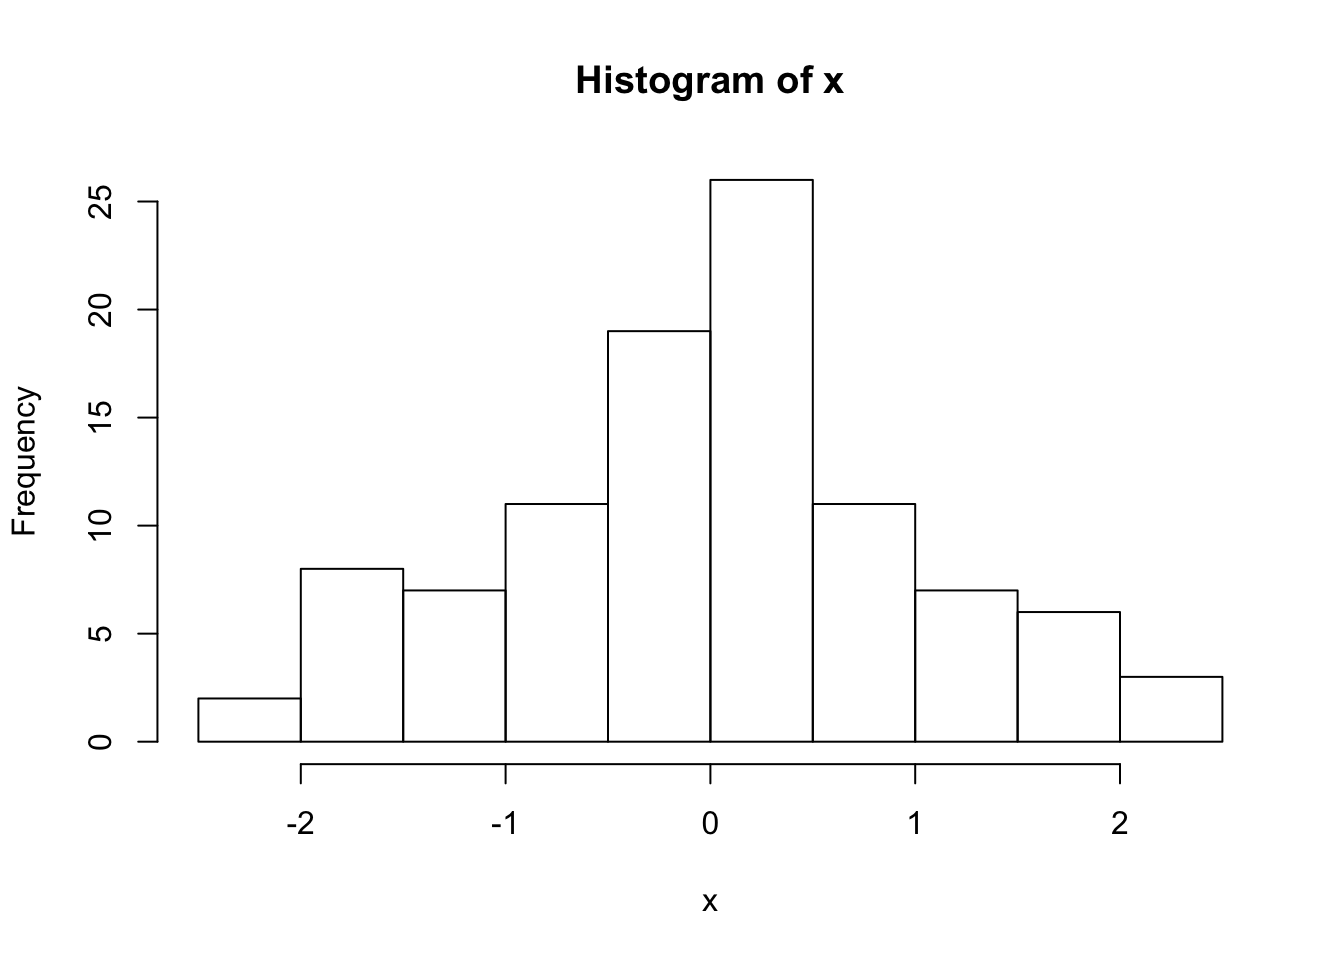
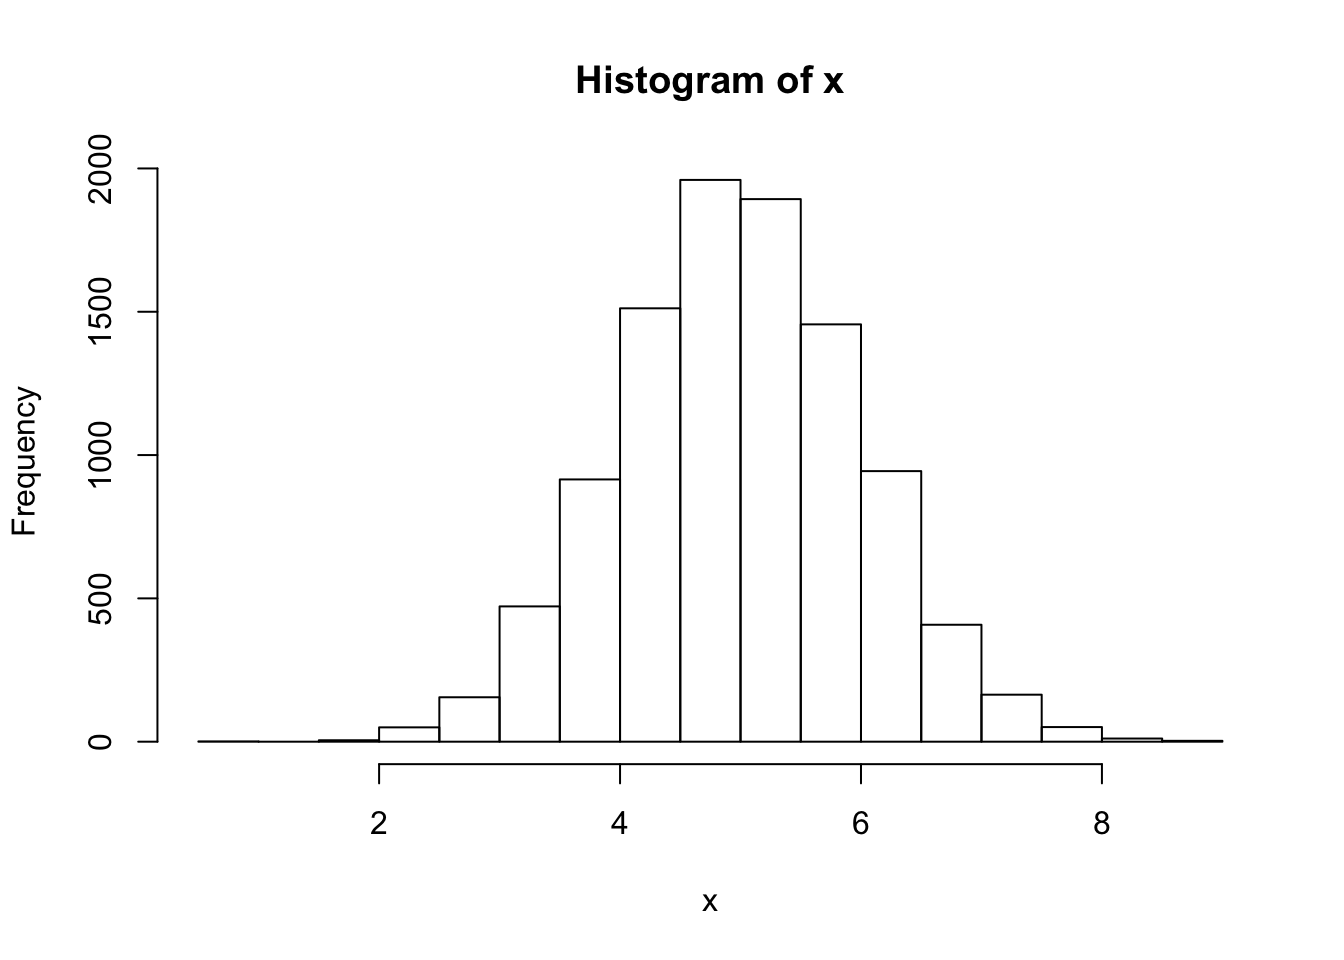
after lecture fixes 04

diff --git a/notes/04-functions-sim-size.html b/notes/04-functions-sim-size.html
@@ -159,15 +159,8 @@ $(document).ready(function () {
 </div>
 
 <pre class="r"><code>knitr::opts_chunk$set(echo = TRUE)
-library(tidyverse)</code></pre>
-<pre><code>## ── Attaching packages ──────────────────────────────── tidyverse 1.2.1 ──</code></pre>
-<pre><code>## ✔ ggplot2 3.0.0     ✔ purrr   0.2.5
-## ✔ tibble  1.4.2     ✔ dplyr   0.7.5
-## ✔ tidyr   0.8.1     ✔ stringr 1.3.1
-## ✔ readr   1.1.1     ✔ forcats 0.3.0</code></pre>
-<pre><code>## ── Conflicts ─────────────────────────────────── tidyverse_conflicts() ──
-## ✖ dplyr::filter() masks stats::filter()
-## ✖ dplyr::lag()    masks stats::lag()</code></pre>
+library(tidyverse)
+set.seed(181818)</code></pre>
 <div id="from-last-time" class="section level1">
 <h1>From last time</h1>
 <div id="warm-upthe-challenge-from-last-time" class="section level2">
@@ -251,7 +244,7 @@ longest_runs &lt;- map_dbl(many_sequences,
 
 # Finally...
 mean(longest_runs)</code></pre>
-<pre><code>## [1] 4.605</code></pre>
+<pre><code>## [1] 4.639</code></pre>
 </div>
 <div id="ways-things-get-more-complicated" class="section level2">
 <h2>Ways things get more complicated</h2>
@@ -292,9 +285,9 @@ coefficient_of_variation &lt;- function(x, na.rm = FALSE, ...){
 
 x &lt;- runif(10)
 coefficient_of_variation(x = x)</code></pre>
-<pre><code>## [1] 0.6506059</code></pre>
+<pre><code>## [1] 0.4623089</code></pre>
 <pre class="r"><code>coefficient_of_variation(x = x, trim = 0.25)</code></pre>
-<pre><code>## [1] 0.6789276</code></pre>
+<pre><code>## [1] 0.4564815</code></pre>
 </div>
 <div id="exponential-inverse-transform" class="section level2">
 <h2>Exponential Inverse Transform</h2>
@@ -302,20 +295,20 @@ coefficient_of_variation(x = x)</code></pre>
 <pre class="r"><code>u &lt;- runif(1)
 lambda &lt;- 5
 (x &lt;- -1 / lambda * log(1 - u))</code></pre>
-<pre><code>## [1] 0.02938678</code></pre>
+<pre><code>## [1] 0.1018719</code></pre>
 <p><strong>Your turn</strong> Turn this into a function. What should the arguments be?</p>
 <pre class="r"><code>u &lt;- runif(1)
 lambda &lt;- 5
 (x &lt;- -1 / lambda * log(1 - u))</code></pre>
-<pre><code>## [1] 0.1685556</code></pre>
+<pre><code>## [1] 0.02019427</code></pre>
 <pre class="r"><code>sample_exp &lt;- function(n, lambda){
   u &lt;- runif(n)
   -1 / lambda * log(1 - u)
 }
 
 sample_exp(10, lambda = 5)</code></pre>
-<pre><code>##  [1] 0.2419494943 0.1907913894 0.0219580001 0.0741930745 0.2165004246
-##  [6] 0.0318073072 0.0529352761 0.2148305231 0.1695176998 0.0001640528</code></pre>
+<pre><code>##  [1] 0.1519967204 0.1512896536 0.0042851299 0.1562532665 0.2497672581
+##  [6] 0.1366965437 0.2555457133 0.0002328799 0.1706922360 0.0479803846</code></pre>
 <p><strong>Back at 9:03</strong></p>
 </div>
 <div id="inverse-transform" class="section level2">
@@ -325,27 +318,27 @@ sample_exp(10, lambda = 5)</code></pre>
 
 u &lt;- runif(1)
 exp_icdf(u, lambda = 5)</code></pre>
-<pre><code>## [1] 0.06985015</code></pre>
+<pre><code>## [1] 0.1628068</code></pre>
 <pre class="r"><code>sample_inverse_cdf &lt;- function(n, inv_cdf, ...){
   u &lt;- runif(n)
   inv_cdf(u, ...)
 }
 sample_inverse_cdf(20, exp_icdf, lambda = 5)</code></pre>
-<pre><code>##  [1] 0.377460846 0.134680430 0.090342510 0.696892194 0.252943295
-##  [6] 0.470452034 0.001856979 0.312886939 0.167484845 0.076197384
-## [11] 0.181871476 0.277986794 0.036273435 0.083352794 0.240986476
-## [16] 0.063278274 0.038729603 0.034852407 0.062547555 0.045064996</code></pre>
+<pre><code>##  [1] 0.053899622 0.025974188 0.165090472 0.711054570 0.313451911
+##  [6] 0.257789633 0.103208275 0.184061036 0.175007737 1.020635893
+## [11] 0.122751554 0.280594812 0.412539486 0.016316951 0.012855245
+## [16] 0.046939276 0.071643537 0.157593954 0.007222465 0.207302211</code></pre>
 <p><strong>Your Turn</strong> Try it to simulate 100 values from a Normal(0, 1). Hint: you can use the built-in inverse CDF function <code>qnorm()</code>.</p>
 <pre class="r"><code>qnorm(0.5) # can use the built in quantile function </code></pre>
 <pre><code>## [1] 0</code></pre>
 <pre class="r"><code>x &lt;- sample_inverse_cdf(100, qnorm) 
 hist(x) # Looks good</code></pre>
-<p><img src="04-functions-sim-size_files/figure-html/unnamed-chunk-8-1.png" width="672" /></p>
+<p><img src="04-functions-sim-size_files/figure-html/unnamed-chunk-7-1.png" width="672" /></p>
 <pre class="r"><code># The `...` allow us to pass in other parameters to our inverse 
 # CDF function
-x &lt;- sample_inverse_cdf(100, qnorm, mean = 5) 
+x &lt;- sample_inverse_cdf(10000, qnorm, mean = 5) 
 hist(x) # Now centered at 5</code></pre>
-<p><img src="04-functions-sim-size_files/figure-html/unnamed-chunk-9-1.png" width="672" /></p>
+<p><img src="04-functions-sim-size_files/figure-html/unnamed-chunk-8-1.png" width="672" /></p>
 </div>
 <div id="takeaways" class="section level2">
 <h2>Takeaways</h2>
@@ -381,30 +374,50 @@ hist(x) # Now centered at 5</code></pre>
 <div id="how-big-a-simulation-should-we-run" class="section level2">
 <h2>How big a simulation should we run?</h2>
 <p>How accurately do we want to estimate <span class="math inline">\(\theta\)</span>?</p>
-<p><strong>Your Turn</strong> Can you get a confidence interval on the estimate of the length on the longest run from our earlier example?</p>
-<pre class="r"><code>theta_hat &lt;- mean(longest_runs)</code></pre>
+<p><strong>Your Turn</strong> Can you get a confidence interval on the estimate of the expected length of the longest run from our earlier example?</p>
+<pre class="r"><code>theta_hat &lt;- mean(longest_runs)
+
+# 95%
+theta_hat + c(-1, 1) * 1.96 * (sd(longest_runs)/sqrt(num_sims))</code></pre>
+<pre><code>## [1] 4.542639 4.735361</code></pre>
 </div>
 <div id="clt" class="section level2">
 <h2>CLT</h2>
+<p>Let <span class="math inline">\(Y = h(X)\)</span>, <span class="math inline">\(\mu = E(Y)\)</span> and <span class="math inline">\(\overline{Y} = \sum_{i = 1}^n h(X_i)\)</span>.</p>
+<p>Then <span class="math display">\[
+\text{Var}(\hat{\theta}) = \text{Var}(\overline{Y}) \dot \sim \,  N\left(\mu, \frac{\text{Var}(Y)}{n}\right)
+\]</span> for large <span class="math inline">\(n\)</span> by the Central Limit Theorem.</p>
+<p>We don’t know <span class="math inline">\(\text{Var}(Y)\)</span>, but we can estimate it using our simulated <span class="math inline">\(Y_i\)</span>.</p>
+<p>Leads to the usual 95% CI formula: <span class="math display">\[
+\overline{Y} \pm 1.96 \frac{s}{\sqrt{n}}
+\]</span> where <span class="math inline">\(s\)</span> is the sample standard deviation of the <span class="math inline">\(Y_i\)</span>, and <span class="math inline">\(n\)</span> the number of simulations.</p>
 </div>
 <div id="a-special-case-binary-outcomes" class="section level2">
 <h2>A special case: binary outcomes</h2>
 <p>New question: What’s the probability of a run greater than 10?</p>
 <p>Want to know: <span class="math display">\[
-\text{P}(h(\pmb{X}) = 1)
+p = \text{P}(h(\pmb{X}) = 1)
 \]</span> where <span class="math display">\[
 h(\pmb{X}) = 
 \begin{cases}
 1, \, \text{when longest run in sequence } \pmb{X} \text{ is greater than 10}, \\
 0, \, \text{otherwise}
 \end{cases}
-\]</span> same as asking for <span class="math inline">\(\theta = \text{E}\left( h(\pmb{X})\right)\)</span>.</p>
+\]</span> same as asking for <span class="math inline">\(p =\theta = \text{E}\left( h(\pmb{X})\right)\)</span>.</p>
 <p>We already have enough to get this new function of our samples:</p>
 <pre class="r"><code>longest_runs &gt; 10</code></pre>
 <p>Estimate <span class="math inline">\(\theta\)</span> with:</p>
-<pre class="r"><code>mean(longest_runs &gt; 10)</code></pre>
-<pre><code>## [1] 0.006</code></pre>
+<pre class="r"><code>p_hat &lt;- mean(longest_runs &gt; 10)</code></pre>
 <p>What’s <span class="math inline">\(Var(\hat{\theta})\)</span> in this setting?</p>
+<p>Use result from Bernoulli random variables <span class="math display">\[
+Var(\hat{p}) = p(1 - p)
+\]</span></p>
+<p>Leads to a CI based only on the estimated probability:</p>
+<pre class="r"><code>p_hat + c(-1, 1) * 1.96 * (sqrt(p_hat*(1-p_hat))/sqrt(num_sims))</code></pre>
+<pre><code>## [1] 0.0006282772 0.0093717228</code></pre>
+<p>The mean approach still works, but will give slightly different values:</p>
+<pre class="r"><code>p_hat + c(-1, 1) * 1.96 * (sd(longest_runs &gt; 10)/sqrt(num_sims))</code></pre>
+<pre><code>## [1] 0.0006260897 0.0093739103</code></pre>
 </div>
 <div id="how-big-a-simulation" class="section level2">
 <h2>How big a simulation?</h2>
@@ -415,7 +428,7 @@ h(\pmb{X}) =
 </div>
 <div id="next-time" class="section level2">
 <h2>Next time</h2>
-<p>Simulating in clever ways to reduce the variance of the estimate.</p>
+<p>Simulating in clever ways to reduce the variance of the estimate, <span class="math inline">\(\text{Var}(\hat{\theta})\)</span>.</p>
 </div>
 </div>
 
